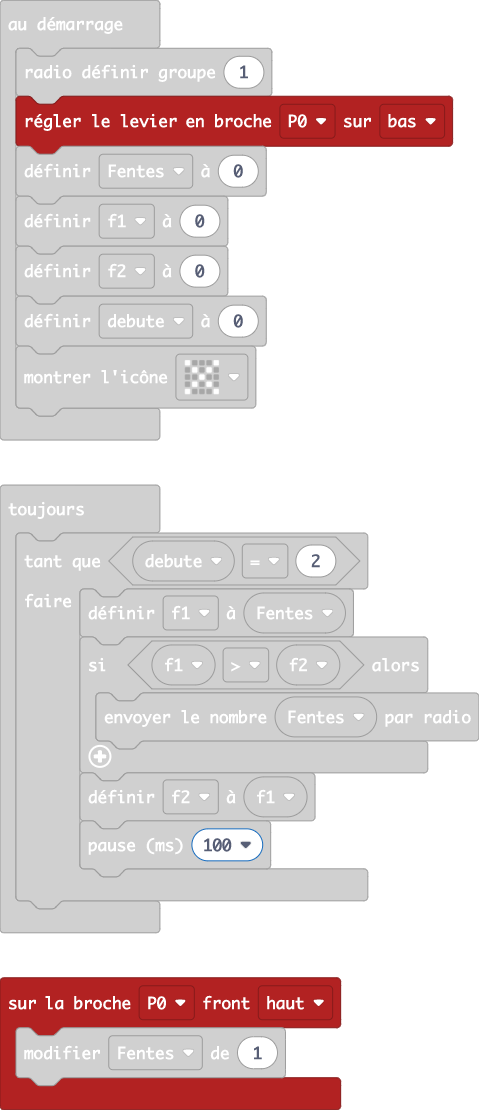
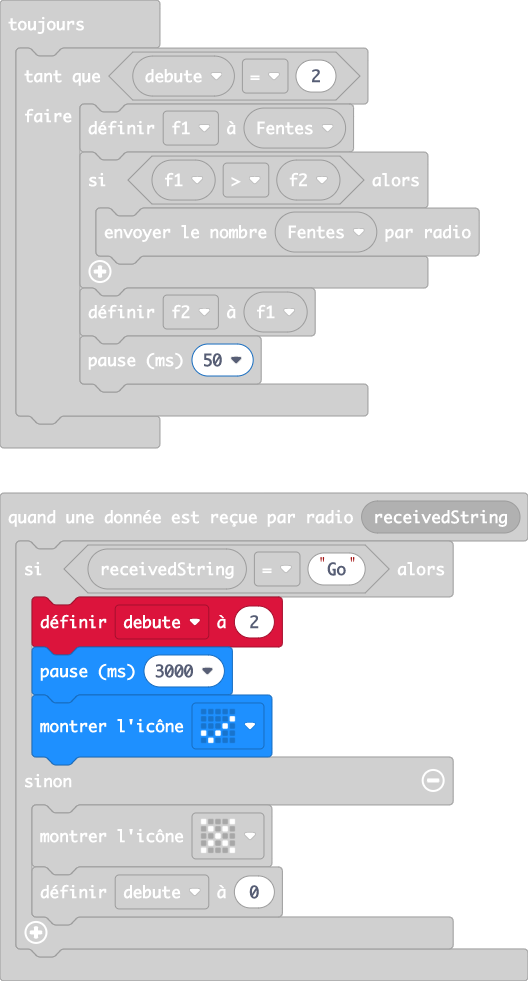
Mise à jour main.blocks, main.ts

diff --git a/main.ts b/main.ts
@@ -3,9 +3,9 @@ pins.onPulsed(DigitalPin.P0, PulseValue.High, function () {
 })
 radio.onReceivedString(function (receivedString) {
     if (receivedString == "Go") {
-        basic.pause(2000)
-        basic.showIcon(IconNames.Yes)
         debute = 2
+        basic.pause(3000)
+        basic.showIcon(IconNames.Yes)
     } else {
         basic.showIcon(IconNames.No)
         debute = 0
@@ -26,6 +26,6 @@ basic.forever(function () {
             radio.sendNumber(Fentes)
         }
         f2 = f1
-        basic.pause(100)
+        basic.pause(50)
     }
 })
